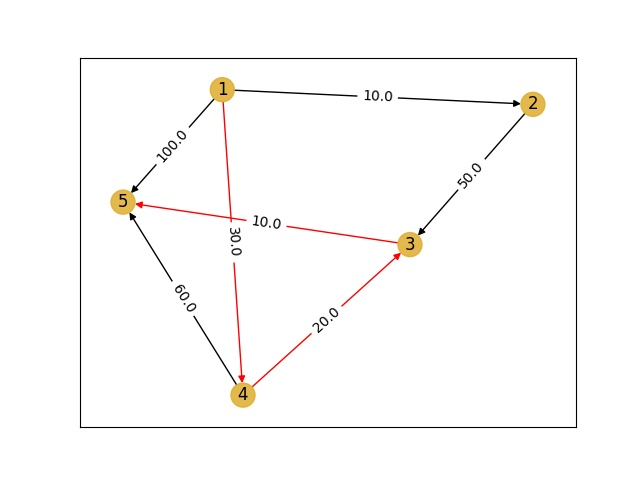
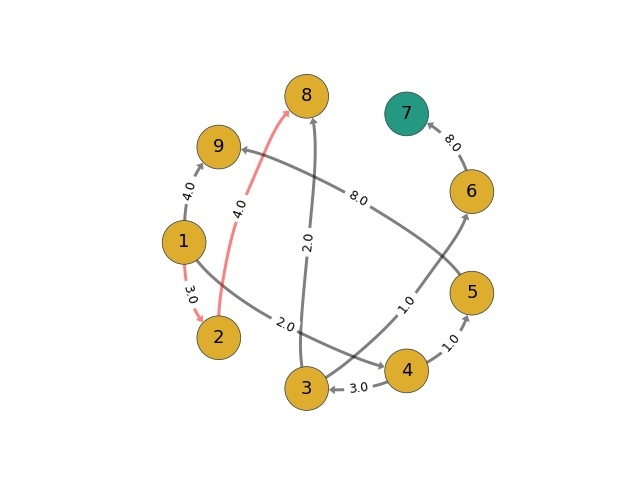
better-looking graph

diff --git a/src/frontend/templates/index.html b/src/frontend/templates/index.html
@@ -69,6 +69,11 @@
     font-size: 15px;
   }
 
+  small {
+    padding-left: 10px;
+    color: #303030;
+  }
+
   </style>
 </head>
 <body>

diff --git a/src/backend/graph.py b/src/backend/graph.py
@@ -2,8 +2,10 @@ import math
 import networkx as nx
 import matplotlib.pyplot as plt
 from os import path
+from netgraph import Graph
 
 def read_file(filename, g):
+    # read txt file, translate content into nx.DiGraph
     p = filename
     lines = []
     with open(p, 'r') as f:
@@ -16,18 +18,16 @@ def read_file(filename, g):
         g.add_edge(edge[0],edge[1],weight=float(edge[2]))
 
 def save_init_img(G):
-    pos = nx.spring_layout(G, seed=7, k=5/math.sqrt(G.order()))  # positions for all nodes - seed for reproducibility
-    # nodes
-    nx.draw_networkx_nodes(G, pos, node_color="#259881cc")
+    pos = nx.shell_layout(G)
 
-    # edges
-    nx.draw_networkx_edges(G, pos, arrows=True)
-
-    # node labels
-    nx.draw_networkx_labels(G, pos, font_family="sans-serif")
-    # edge weight labels
-    edge_labels = nx.get_edge_attributes(G, "weight")
-    nx.draw_networkx_edge_labels(G, pos, edge_labels)
+    #pos = nx.spring_layout(G, seed=7, k=5/math.sqrt(G.order()))
+    edge_labels = nx.get_edge_attributes(G, 'weight')
+    Graph(G, node_layout=pos, edge_layout='curved', origin=(-1, -1), scale=(2, 2),
+        node_color="#259881cc", node_size=15.,
+        node_labels=True, node_label_fontdict=dict(size=13),
+        edge_labels=edge_labels, edge_label_fontdict=dict(size=9),
+        arrows=True, edge_width=2., edge_color="black"
+    )
     
     filepath = path.dirname(path.dirname(__file__))
     filepath = path.join(filepath, "frontend/static/graph_init.jpg")
@@ -35,29 +35,35 @@ def save_init_img(G):
     plt.clf()
 
 def save_fin_img(G, p, visited):
-    pos = nx.spring_layout(G, seed=7, k=5/math.sqrt(G.order()))  # positions for all nodes - seed for reproducibility
-    
-    color_map = []
+    pos = nx.shell_layout(G)
+
+    # nodes
+    color_map = {}
     for node in G:
         if node in visited:
-            color_map.append("#dfad2ed9")
+            color_map[node] = "#dfad2ed9"
         else:
-            color_map.append("#259881cc")
-    nx.draw_networkx_nodes(G, pos, node_color=color_map)
+            color_map[node] = "#259881cc"
 
+    edge_labels = nx.get_edge_attributes(G, 'weight')
+
+    # edges
     for (u,v) in G.edges:
         G[u][v]['color'] = 'black'
     for i in range (len(p)-1):
         G[p[i]][p[i+1]]['color'] = 'red'
-    edge_color_map = [G[u][v]['color'] for (u,v) in G.edges]
-    nx.draw_networkx_edges(G, pos, edge_color = edge_color_map, arrows=True)
+    edge_color_map = {}
+    for (u,v) in G.edges:
+        edge_color_map[(u,v)] = G[u][v]['color']
+    #edge_color_map = [G[u][v]['color'] for (u,v) in G.edges]
 
-    # node labels
-    nx.draw_networkx_labels(G, pos, font_family="sans-serif")
-    # edge weight labels
-    edge_labels = nx.get_edge_attributes(G, "weight")
-    nx.draw_networkx_edge_labels(G, pos, edge_labels)
-    
+    Graph(G, node_layout=pos, edge_layout='curved', origin=(-1, -1), scale=(2, 2),
+        node_color=color_map, node_size=15.,
+        node_labels=True, node_label_fontdict=dict(size=13),
+        edge_labels=edge_labels, edge_label_fontdict=dict(size=9),
+        arrows=True, edge_width=2., edge_color=edge_color_map
+    )
+
     filepath = path.dirname(path.dirname(__file__))
     filepath = path.join(filepath, "frontend/static/graph_fin.jpg")
     plt.savefig(filepath)

diff --git a/src/frontend/app.py b/src/frontend/app.py
@@ -92,4 +92,4 @@ def display_res():
 
 if __name__ == '__main__':
     g = nx.DiGraph()
-    app.run()
+    app.run(debug=True)
